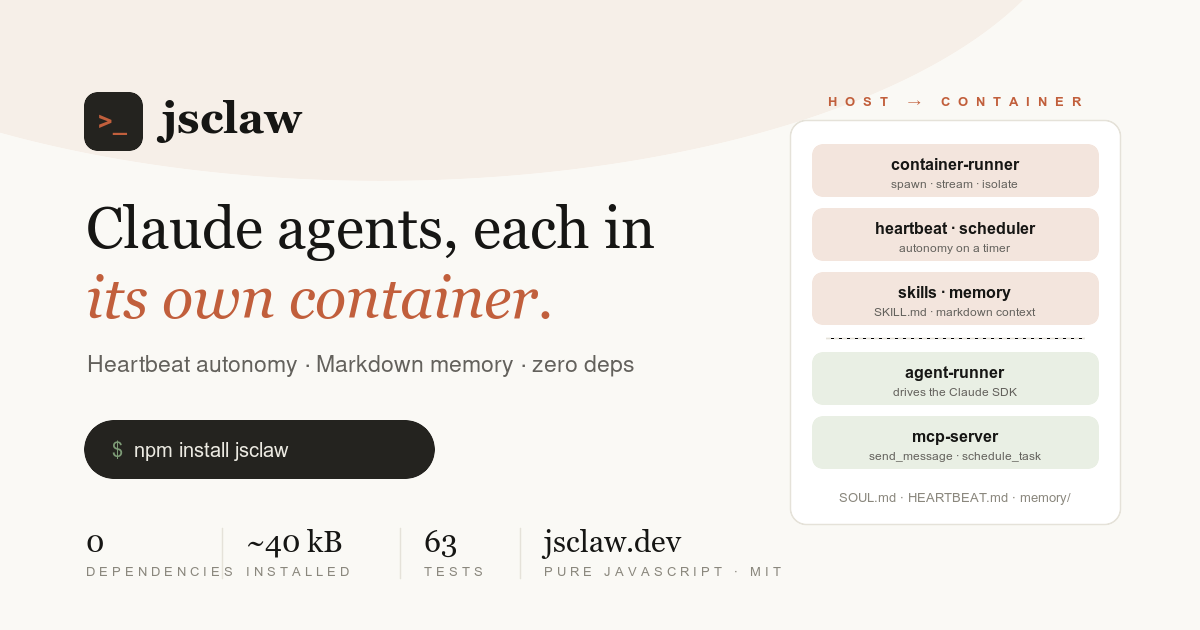
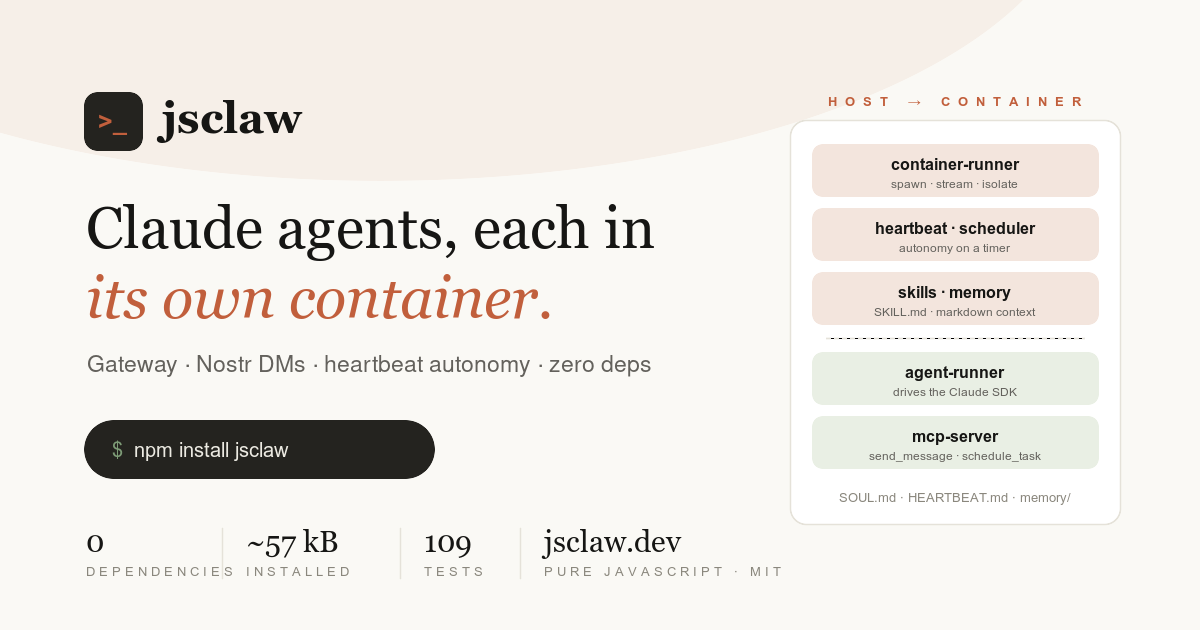
Refresh for v0.0.10: gateway, Nostr, MCP sections
- Hero: gateway CTA, updated stats (109 tests, ~57 kB, 1 command)
- New Gateway section: npx jsclaw gateway terminal demo + protocol note
- New Nostr section: npub pitch, code sample, BIP340 verification note
- Features grid: +Gateway, +Nostr, +MCP cards (12 total)
- Module map: +gateway, +nostr, +ws (15 cards)
- Comparison table: Nostr built in, gateway optional vs required
- OG image stats refreshed

Changed region(s): [[0.0617, 0.5429, 0.555, 0.6032], [0.3392, 0.8444, 0.4008, 0.9048], [0.2158, 0.8444, 0.3083, 0.8746]]

diff --git a/index.html b/index.html
@@ -4,7 +4,7 @@
   <meta charset="UTF-8">
   <meta name="viewport" content="width=device-width, initial-scale=1.0">
   <title>jsclaw — Claude agents, each in its own container</title>
-  <meta name="description" content="Pure JavaScript container orchestration for autonomous Claude AI agents. Heartbeat, scheduler, memory, skills, channels. Zero dependencies.">
+  <meta name="description" content="Pure JavaScript container orchestration for autonomous Claude AI agents. One command runs the full host: gateway, webchat, heartbeat, scheduler, Nostr DMs, MCP. Zero dependencies.">
 
   <!-- Open Graph -->
   <meta property="og:type" content="website">
@@ -14,7 +14,7 @@
   <meta property="og:image:width" content="1200">
   <meta property="og:image:height" content="630">
   <meta property="og:image:type" content="image/png">
-  <meta property="og:image:alt" content="jsclaw — Claude agents, each in its own container. Zero dependencies, 63 tests, pure JavaScript.">
+  <meta property="og:image:alt" content="jsclaw — Claude agents, each in its own container. Zero dependencies, 109 tests, pure JavaScript.">
   <meta property="og:url" content="https://jsclaw.dev">
   <meta property="og:site_name" content="jsclaw">
   <meta property="og:locale" content="en_US">
@@ -37,7 +37,7 @@
     "description": "Pure JavaScript container orchestration for autonomous Claude AI agents. Heartbeat, scheduler, memory, skills, channels. Zero dependencies.",
     "url": "https://jsclaw.dev",
     "downloadUrl": "https://www.npmjs.com/package/jsclaw",
-    "softwareVersion": "0.0.5",
+    "softwareVersion": "0.0.10",
     "license": "https://opensource.org/licenses/MIT",
     "offers": { "@type": "Offer", "price": "0", "priceCurrency": "USD" }
   }
@@ -476,7 +476,8 @@
     <a class="logo" href="#"><span class="mark">&gt;_</span> jsclaw</a>
     <div class="links">
       <a href="#features">Features</a>
-      <a href="#how">How it works</a>
+      <a href="#gateway">Gateway</a>
+      <a href="#nostr">Nostr</a>
       <a href="#code">Quick start</a>
       <a href="#cli">CLI</a>
       <a href="#modules">API</a>
@@ -491,11 +492,11 @@
 <!-- ================= HERO ================= -->
 <header class="hero">
   <div class="wrap">
-    <div class="eyebrow"><span class="dot"></span> v0.0.5 · Pure JavaScript ESM · MIT</div>
+    <div class="eyebrow"><span class="dot"></span> v0.0.10 · Pure JavaScript ESM · MIT</div>
     <h1>Claude agents,<br>each in <em>its own container</em>.</h1>
     <p class="sub">
-      jsclaw is the lightweight orchestration engine for autonomous Claude AI agents —
-      isolated in Docker, woken by heartbeats, remembering in Markdown. Zero dependencies.
+      jsclaw is the lightweight engine for autonomous Claude AI agents — isolated in Docker,
+      woken by heartbeats, reachable from a browser or over Nostr. Zero dependencies, down to the WebSocket server.
     </p>
     <div class="install-row">
       <div class="install-pill" onclick="copyInstall(this)">
@@ -504,13 +505,13 @@
         <span class="copy"><svg width="15" height="15" viewBox="0 0 24 24" fill="none" stroke="currentColor" stroke-width="2" stroke-linecap="round" stroke-linejoin="round"><rect x="9" y="9" width="13" height="13" rx="2"/><path d="M5 15H4a2 2 0 0 1-2-2V4a2 2 0 0 1 2-2h9a2 2 0 0 1 2 2v1"/></svg></span>
         <span class="tip">Copied</span>
       </div>
-      <a class="cta-secondary" href="https://github.com/jsclaw/jsclaw#readme">Read the docs <span class="arr">→</span></a>
+      <a class="cta-secondary" href="#gateway">Then: <span class="mono" style="font-size:.88em">npx jsclaw gateway</span> <span class="arr">→</span></a>
     </div>
     <div class="stats">
       <div class="stat"><div class="n">0</div><div class="l">Dependencies</div></div>
-      <div class="stat"><div class="n">~40 kB</div><div class="l">Installed</div></div>
-      <div class="stat"><div class="n">63</div><div class="l">Tests passing</div></div>
-      <div class="stat"><div class="n">12</div><div class="l">Modules</div></div>
+      <div class="stat"><div class="n">~57 kB</div><div class="l">Installed</div></div>
+      <div class="stat"><div class="n">109</div><div class="l">Tests passing</div></div>
+      <div class="stat"><div class="n">1</div><div class="l">Command to run</div></div>
     </div>
   </div>
 </header>
@@ -565,11 +566,85 @@
         <p>Ingress with <code>{{body.field}}</code> templates and secret auth; egress on events like <code>agent.task.completed</code>. CI, Slack, PagerDuty, home automation.</p>
       </div>
       <div class="feat reveal">
+        <div class="icon"><svg viewBox="0 0 24 24" fill="none" stroke="currentColor" stroke-width="1.8" stroke-linecap="round" stroke-linejoin="round"><rect x="2" y="3" width="20" height="14" rx="2"/><path d="M8 21h8M12 17v4"/></svg></div>
+        <h3>Gateway &amp; webchat</h3>
+        <p><code>npx jsclaw gateway</code> runs the whole host: WebSocket control plane in openclaw's wire shape, token auth, and a browser chat at <code>/chat</code>.</p>
+      </div>
+      <div class="feat reveal">
+        <div class="icon"><svg viewBox="0 0 24 24" fill="none" stroke="currentColor" stroke-width="1.8" stroke-linecap="round" stroke-linejoin="round"><circle cx="12" cy="12" r="2"/><path d="M16.24 7.76a6 6 0 0 1 0 8.49M7.76 16.24a6 6 0 0 1 0-8.49M19.07 4.93a10 10 0 0 1 0 14.14M4.93 19.07a10 10 0 0 1 0-14.14"/></svg></div>
+        <h3>Nostr, natively</h3>
+        <p>Your agent gets an npub. Encrypted DMs from any Nostr client — BIP340 Schnorr and NIP-04 in pure <code>node:crypto</code>, verified against the Bitcoin test vectors.</p>
+      </div>
+      <div class="feat reveal">
+        <div class="icon"><svg viewBox="0 0 24 24" fill="none" stroke="currentColor" stroke-width="1.8" stroke-linecap="round" stroke-linejoin="round"><path d="M10 13a5 5 0 0 0 7.54.54l3-3a5 5 0 0 0-7.07-7.07l-1.72 1.71"/><path d="M14 11a5 5 0 0 0-7.54-.54l-3 3a5 5 0 0 0 7.07 7.07l1.71-1.71"/></svg></div>
+        <h3>MCP passthrough</h3>
+        <p>Declare any of the 32,000+ MCP servers in openclaw's <code>mcp.servers</code> shape and your agents get their tools — secrets via stdin, never <code>ps</code>-visible.</p>
+      </div>
+      <div class="feat reveal">
         <div class="icon"><svg viewBox="0 0 24 24" fill="none" stroke="currentColor" stroke-width="1.8" stroke-linecap="round" stroke-linejoin="round"><rect x="3" y="11" width="18" height="11" rx="2"/><path d="M7 11V7a5 5 0 0 1 10 0v4"/></svg></div>
         <h3>Mount security</h3>
         <p>Allowlist-validated volume mounts with symlink resolution. <code>.ssh</code>, <code>.aws</code>, <code>.env</code> and friends are blocked by default, always.</p>
       </div>
     </div>
+  </div>
+</section>
+
+<!-- ================= GATEWAY ================= -->
+<section id="gateway">
+  <div class="wrap">
+    <div class="sec-head reveal">
+      <div class="kicker">Run it</div>
+      <h2>One command. A whole agent host.</h2>
+      <p>The gateway wires everything — orphan reaping, scheduler, heartbeat, IPC — and exposes a WebSocket control plane in openclaw's frame shape, with a chat UI in your browser. The WebSocket server itself is hand-rolled RFC 6455 on Node built-ins: still zero dependencies.</p>
+    </div>
+    <div class="term reveal">
+      <div class="bar"><i></i><i></i><i></i><span>jsclaw — zsh</span></div>
+      <div class="body"><pre><span class="ps">$</span> npx jsclaw gateway
+
+<span class="hi">jsclaw gateway v0.0.10</span>
+  chat:    <span class="ok">http://127.0.0.1:18789/chat?token=2f0a…</span>
+  ws:      ws://127.0.0.1:18789/?token=2f0a…
+  groups:  main
+  token:   2f0a… <span class="dim">(generated; set JSCLAW_GATEWAY_TOKEN to pin)</span>
+
+<span class="dim">Ctrl-C to stop.</span></pre></div>
+    </div>
+    <p class="reveal" style="margin-top:18px; color:var(--muted); font-size:.92rem;">
+      Open the chat URL and talk to your containerized agent — or connect anything that speaks
+      <span class="mono" style="font-size:.85em">{type:"req", method:"chat.send"}</span>:
+      dashboards, scripts, other agents. Methods: <span class="mono" style="font-size:.85em">status · chat.send · tasks.* · heartbeat.trigger · memory.*</span>
+    </p>
+  </div>
+</section>
+
+<!-- ================= NOSTR ================= -->
+<section class="alt" id="nostr">
+  <div class="wrap">
+    <div class="sec-head reveal">
+      <div class="kicker">Decentralized</div>
+      <h2>Your agent has an <em style="color:var(--terra)">npub</em>.</h2>
+      <p>DM it from Damus, Amethyst, or any Nostr client — encrypted NIP-04 DMs, no bot tokens, no platform accounts, no central server. The only claw runtime with a decentralized channel built in, and the whole stack — BIP340 Schnorr, NIP-04, bech32, relays — is <code class="mono" style="font-size:.85em">node:crypto</code> + native WebSocket.</p>
+    </div>
+    <div class="code-shell reveal">
+      <div class="code-tabs"><button class="code-tab active">nostr-agent.js</button></div>
+      <div class="code-panes"><div class="code-pane active"><pre><span class="kw">import</span> { <span class="fn">createNostrChannel</span> } <span class="kw">from</span> <span class="str">'jsclaw'</span>;
+
+<span class="kw">const</span> channel = <span class="fn">createNostrChannel</span>({
+  <span class="prop">privateKey</span>: process.env.<span class="prop">NOSTR_PRIVATE_KEY</span>,        <span class="cm">// hex or nsec</span>
+  <span class="prop">relays</span>: [<span class="str">'wss://relay.damus.io'</span>, <span class="str">'wss://nos.lol'</span>],
+  <span class="prop">allowedPubkeys</span>: [<span class="str">'npub1you…'</span>],                   <span class="cm">// default-closed</span>
+  <span class="prop">onMessage</span>: (jid, text) =&gt; { <span class="cm">/* run the agent, reply */</span> },
+});
+
+<span class="kw">await</span> channel.<span class="fn">connect</span>();
+console.<span class="fn">log</span>(<span class="str">'DM your agent at'</span>, channel.npub);</pre></div></div>
+    </div>
+    <p class="reveal" style="margin-top:18px; color:var(--muted); font-size:.92rem;">
+      Every inbound event is signature-verified; only allowlisted pubkeys reach the agent.
+      Schnorr signing is validated against the official
+      <a href="https://github.com/bitcoin/bips/blob/master/bip-0340/test-vectors.csv" style="color:var(--terra-dark); border-bottom:1px solid var(--terra-soft);">BIP340 test vectors</a>
+      and cross-checked against node:crypto's independent secp256k1.
+    </p>
   </div>
 </section>
 
@@ -776,7 +851,7 @@ channels.<span class="fn">register</span>(discordChannel);    <span class="cm">/
     <div class="term reveal">
       <div class="bar"><i></i><i></i><i></i><span>jsclaw — zsh</span></div>
       <div class="body"><pre><span class="ps">$</span> npx jsclaw status
-<span class="hi">jsclaw v0.0.5</span>
+<span class="hi">jsclaw v0.0.10</span>
   runtime:  docker (jsclaw-agent:latest)
   groups:   ./groups (2: main, research)
   tasks:    3 total, 2 active
@@ -814,9 +889,9 @@ channels.<span class="fn">register</span>(discordChannel);    <span class="cm">/
           <tr><td>Host dependencies</td><td class="hl"><span class="y">0</span></td><td>~7 (sqlite, baileys…)</td><td>Many</td></tr>
           <tr><td>Container isolation</td><td class="hl"><span class="y">✓</span> core design</td><td><span class="y">✓</span> core design</td><td>Optional sandbox</td></tr>
           <tr><td>Heartbeat + scheduler</td><td class="hl"><span class="y">✓</span></td><td>Scheduler only</td><td><span class="y">✓</span></td></tr>
-          <tr><td>SOUL.md · memory · skills</td><td class="hl"><span class="y">✓</span> openclaw-compatible</td><td><span class="n2">—</span></td><td><span class="y">✓</span></td></tr>
-          <tr><td>Channels</td><td class="hl">Bring your own (interface)</td><td>WhatsApp, Telegram</td><td>26+ built in</td></tr>
-          <tr><td>Daemon required</td><td class="hl"><span class="y">No</span></td><td>Yes</td><td>Yes (gateway)</td></tr>
+          <tr><td>SOUL.md · memory · skills · MCP</td><td class="hl"><span class="y">✓</span> openclaw-compatible</td><td><span class="n2">—</span></td><td><span class="y">✓</span></td></tr>
+          <tr><td>Channels</td><td class="hl">Nostr built in + interface</td><td>WhatsApp, Telegram</td><td>26+ built in</td></tr>
+          <tr><td>Gateway / web UI</td><td class="hl"><span class="y">✓</span> optional, one command</td><td><span class="n2">—</span></td><td><span class="y">✓</span> required</td></tr>
         </tbody>
       </table>
     </div>
@@ -828,7 +903,7 @@ channels.<span class="fn">register</span>(discordChannel);    <span class="cm">/
   <div class="wrap">
     <div class="sec-head reveal">
       <div class="kicker">API surface</div>
-      <h2>Twelve small modules. Import what you need.</h2>
+      <h2>Small modules. Import what you need.</h2>
       <p>Granular ESM exports — every module works standalone. Full reference in the <a href="https://github.com/jsclaw/jsclaw#readme">README</a>.</p>
     </div>
     <div class="mod-grid reveal">
@@ -842,6 +917,9 @@ channels.<span class="fn">register</span>(discordChannel);    <span class="cm">/
       <a class="mod" href="https://github.com/jsclaw/jsclaw/blob/main/src/channel.js"><div class="p">jsclaw/channel</div><div class="d">Channel interface + outbound routing</div></a>
       <a class="mod" href="https://github.com/jsclaw/jsclaw/blob/main/src/bindings.js"><div class="p">jsclaw/bindings</div><div class="d">Multi-agent routing, most-specific-wins</div></a>
       <a class="mod" href="https://github.com/jsclaw/jsclaw/blob/main/src/webhooks.js"><div class="p">jsclaw/webhooks</div><div class="d">HTTP ingress + outgoing event hooks</div></a>
+      <a class="mod" href="https://github.com/jsclaw/jsclaw/blob/main/src/gateway.js"><div class="p">jsclaw/gateway</div><div class="d">WebSocket control plane + webchat</div></a>
+      <a class="mod" href="https://github.com/jsclaw/jsclaw/blob/main/src/nostr.js"><div class="p">jsclaw/nostr</div><div class="d">Decentralized DMs, zero-dep Schnorr</div></a>
+      <a class="mod" href="https://github.com/jsclaw/jsclaw/blob/main/src/ws.js"><div class="p">jsclaw/ws</div><div class="d">RFC 6455 server on Node built-ins</div></a>
       <a class="mod" href="https://github.com/jsclaw/jsclaw/blob/main/src/group-queue.js"><div class="p">jsclaw/group-queue</div><div class="d">Per-group concurrency, global limits</div></a>
       <a class="mod" href="https://github.com/jsclaw/jsclaw/blob/main/src/mount-security.js"><div class="p">jsclaw/mount-security</div><div class="d">Allowlist mount validation</div></a>
     </div>
